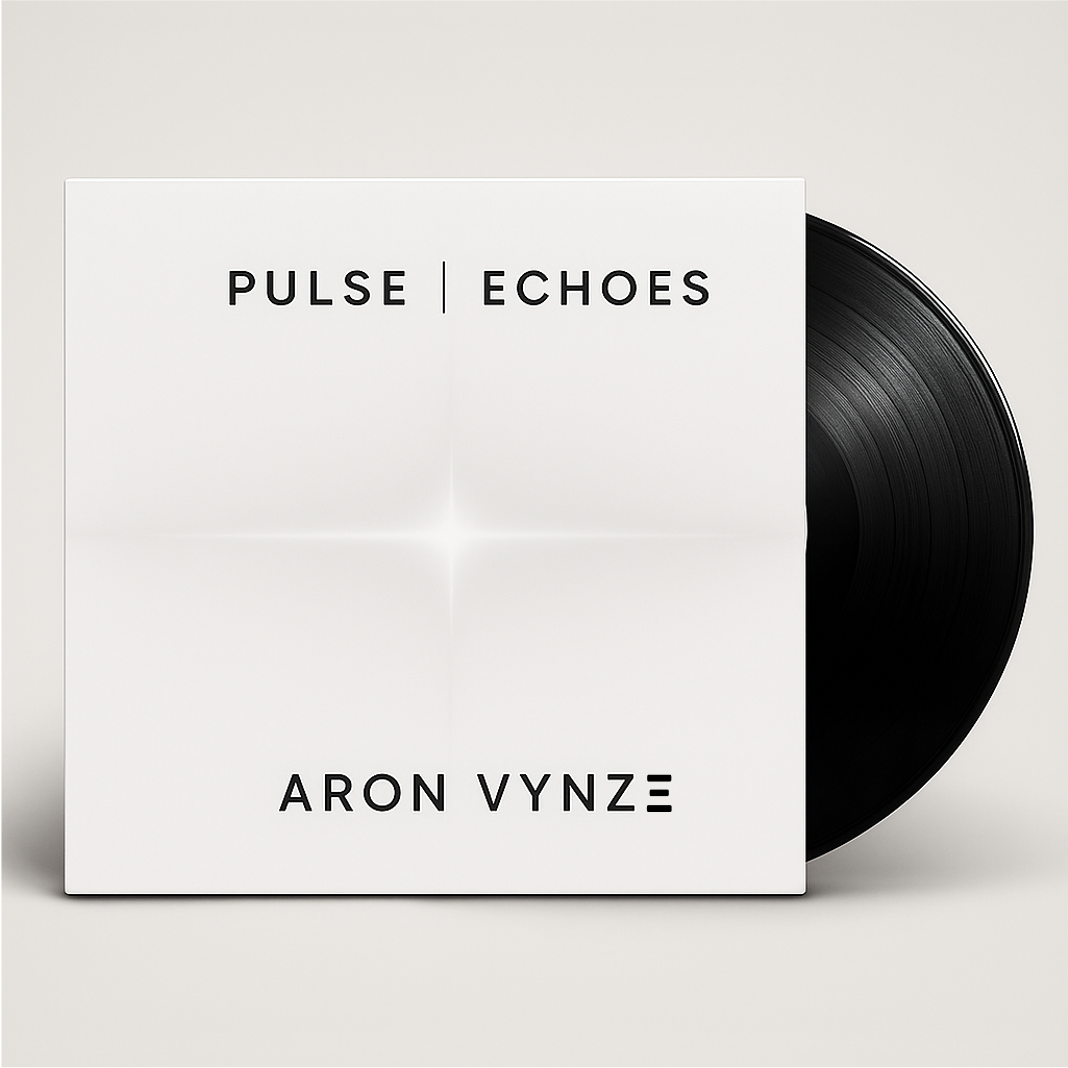
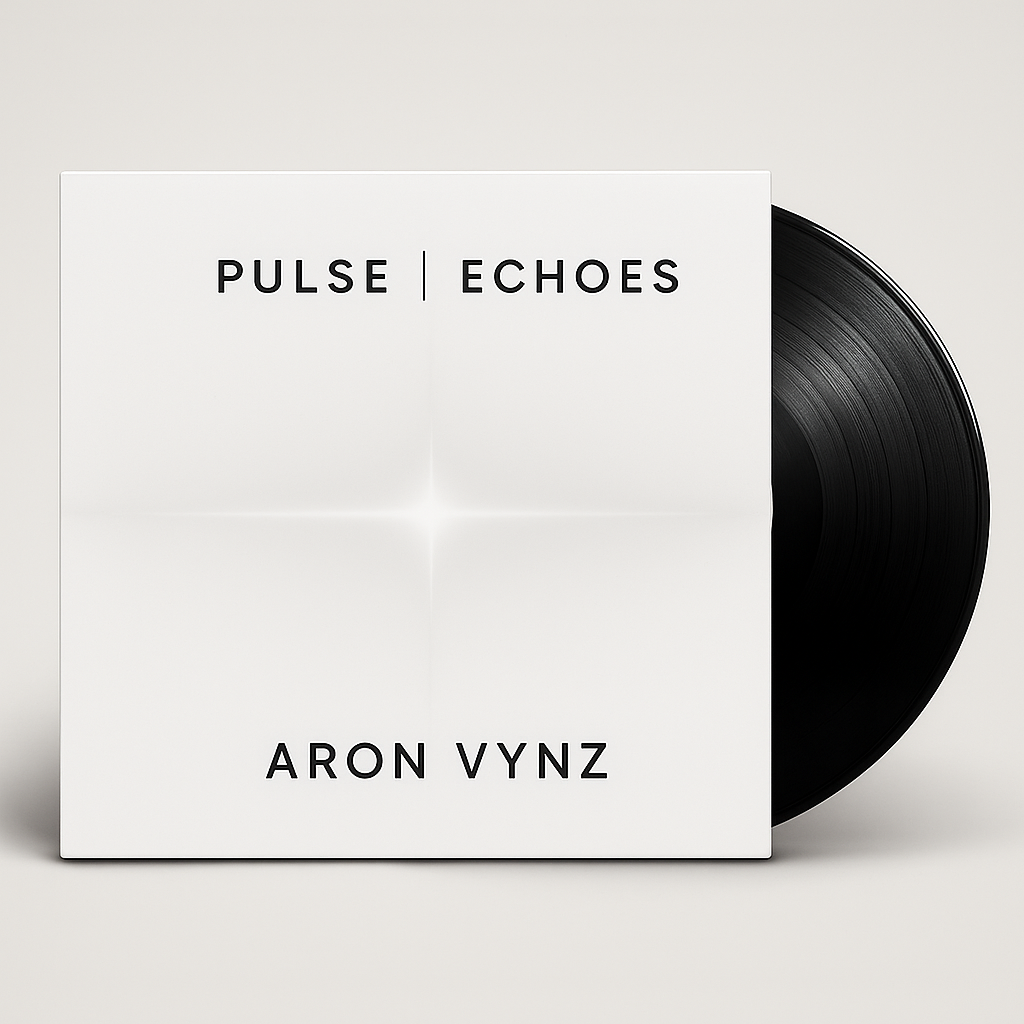
z

diff --git a/index2.html b/index2.html
@@ -11,6 +11,7 @@
       --ring:#e7e7ea; --shadow: 0 8px 30px rgba(10,10,20,.06);
     }
     *{box-sizing:border-box}
+    html{scroll-behavior:smooth}
     body{margin:0;background:var(--bg);color:var(--text);font-family:Inter,system-ui,-apple-system,Segoe UI,Roboto,Helvetica,Arial,sans-serif}
     a{color:inherit;text-decoration:none}
     img{display:block;max-width:100%}
@@ -19,13 +20,15 @@
     .hero{padding:56px 0;border-bottom:1px solid var(--ring)}
     .grid{display:grid;gap:36px}
     @media(min-width:900px){.grid{grid-template-columns:1.1fr .9fr;align-items:center}}
+    h1{font-size:clamp(28px,4.5vw,56px);line-height:1.05;margin:0}
     .lede{margin-top:10px;color:#444;max-width:70ch}
     .section{padding:36px 0}
-    .album{padding:18px 0 8px}
+    .album{padding:18px 0 8px; scroll-margin-top:80px}
     .album-head{display:flex;align-items:flex-end;justify-content:space-between;gap:16px;margin:8px 0 14px}
     .grid-covers{display:grid;gap:18px}
     @media(min-width:900px){.grid-covers{grid-template-columns:repeat(5,1fr)}}
-    .tile{background:#fff;border:1px solid var(--ring);border-radius:18px;overflow:hidden;box-shadow:var(--shadow)}
+    .tile{background:#fff;border:1px solid var(--ring);border-radius:18px;overflow:hidden;box-shadow:var(--shadow);transition:transform .12s ease, box-shadow .2s ease}
+    .tile:hover{transform:translateY(-2px);box-shadow:0 12px 40px rgba(10,10,20,.10)}
     .cover{aspect-ratio:1/1;background:linear-gradient(180deg,#f9fafb,#eef1f5);display:grid;place-items:center}
     .meta{padding:10px 12px}
     .title{font-weight:800;font-size:.98rem}
@@ -33,6 +36,13 @@
     .divider{height:1px;background:var(--ring);margin:22px 0}
     footer{border-top:1px solid var(--ring)}
     .footer{padding:22px 0;color:#888d95;font-size:12px}
+
+    /* Overview row styles */
+    .overview-grid{display:grid;gap:18px}
+    @media(min-width:900px){.overview-grid{grid-template-columns:repeat(4,1fr)}}
+    .overview-card{display:block;background:#fff;border:1px solid var(--ring);border-radius:18px;overflow:hidden;box-shadow:var(--shadow);transition:transform .12s ease, box-shadow .2s ease}
+    .overview-card:hover{transform:translateY(-2px);box-shadow:0 12px 40px rgba(10,10,20,.10)}
+    .overview-title{padding:10px 12px;font-weight:800}
   </style>
 </head>
 <body>
@@ -51,9 +61,38 @@
         <div><img src="catalogue.png" alt="Catalogue Banner" style="width:100%;border-radius:18px;"/></div>
       </div>
     </section>
-    <section id="albums" class="section"><div class="wrap" id="albumsRoot"></div></section>
+
+    <!-- Albums Overview Row -->
+    <section class="section">
+      <div class="wrap">
+        <div class="overview-grid">
+          <a class="overview-card" href="#origins">
+            <img src="covers/origins/origins.png" alt="Pulse | Origins cover">
+            <div class="overview-title">Pulse | Origins</div>
+          </a>
+          <a class="overview-card" href="#legacy">
+            <img src="covers/legacy/legacy.png" alt="Pulse | Legacy cover">
+            <div class="overview-title">Pulse | Legacy</div>
+          </a>
+          <a class="overview-card" href="#echoes">
+            <img src="covers/echoes/echoes.png" alt="Pulse | Echoes cover">
+            <div class="overview-title">Pulse | Echoes</div>
+          </a>
+          <a class="overview-card" href="#deluxe">
+            <img src="covers/deluxe/deluxe.png" alt="Pulse | Deluxe cover">
+            <div class="overview-title">Pulse | Deluxe</div>
+          </a>
+        </div>
+      </div>
+    </section>
+
+    <section id="albums" class="section">
+      <div class="wrap" id="albumsRoot"></div>
+    </section>
   </main>
+
   <footer><div class="wrap footer">© <span id="year"></span> Aron VYNZΞ</div></footer>
+
   <script>
     document.getElementById('year').textContent = new Date().getFullYear();
     const pad2=n=>String(n).padStart(2,"0");
@@ -61,8 +100,8 @@
     const albums=[
       {id:"origins",name:"Aron VYNZΞ — Pulse | Origins",note:"Tracks 1–10",tracks:makeTracks(10,"origins")},
       {id:"legacy",name:"Aron VYNZΞ — Pulse | Legacy",note:"Tracks 11–20",tracks:makeTracks(10,"legacy")},
-      {id:"echoes",name:"Aron VYNZΞ — Pulse | Echoes",note:"Remix / ambient",tracks:makeTracks(5,"echoes")},
-      {id:"deluxe",name:"Aron VYNZΞ — Pulse | Deluxe",note:"Complete edition",tracks:makeTracks(25,"deluxe")}
+      {id:"echoes",name:"Aron VYNZΞ — Pulse | Echoes",note:"Ambient remix",tracks:makeTracks(10,"echoes")},
+      {id:"deluxe",name:"Aron VYNZΞ — Pulse | Deluxe",note:"Complete edition",tracks:makeTracks(30,"deluxe")}
     ];
     const root=document.getElementById('albumsRoot');
     albums.forEach((a,idx)=>{

diff --git a/index.html b/index.html
@@ -3,7 +3,7 @@
 <head>
   <meta charset="utf-8" />
   <meta name="viewport" content="width=device-width, initial-scale=1" />
-  <title>VYNZΞ — PULSΞ · Albums & Tracks</title>
+  <title>VYNZE — PULSE · Albums & Tracks</title>
   <style>
     :root{
       --bg:#ffffff; --text:#0f1115; --muted:#52545a;
@@ -43,24 +43,54 @@
     .overview-card{display:block;background:#fff;border:1px solid var(--ring);border-radius:18px;overflow:hidden;box-shadow:var(--shadow);transition:transform .12s ease, box-shadow .2s ease}
     .overview-card:hover{transform:translateY(-2px);box-shadow:0 12px 40px rgba(10,10,20,.10)}
     .overview-title{padding:10px 12px;font-weight:800}
-  </style>
+  
+/* Full-width hero with background and centered overlay text */
+.hero-full{
+  position: relative;
+  width: 100%;
+  min-height: clamp(320px, 55vh, 560px);
+  background-image: url('banner.png');
+  background-size: cover;
+  background-position: center;
+  background-repeat: no-repeat;
+  display: grid;
+  place-items: center;
+  text-align: center;
+  color: #fff;
+  padding: 24px;
+}
+.hero-full .wrap{
+  max-width: 1100px;
+  margin: 0 auto;
+}
+.hero-full h1{
+  margin: 0 0 12px 0;
+  font-size: clamp(28px, 6vw, 56px);
+  letter-spacing: .02em;
+}
+.hero-full .lede{
+  margin: 8px auto;
+  font-size: clamp(14px, 2.1vw, 20px);
+  line-height: 1.5;
+}
+/* subtle text shadow to maintain readability while keeping the image unchanged */
+.hero-full, .hero-full *{
+  text-shadow: 0 2px 18px rgba(0,0,0,.6);
+}
+
+</style>
 </head>
 <body>
   <main id="top">
-    <section class="hero">
-      <div class="wrap grid">
-        <div>
-          <h1>VYNZΞ — PULSΞ</h1>
-          <p class="lede">
-            VYNZΞ (Vision Your Next Zenith) is the project name of Aron Vynze, an electronic DJ / producer, melodic techno and progressive house with futuristic soundscapes. His music is defined by deep basslines, shimmering melodies, and an immersive, cinematic atmosphere.
-          </p>
-          <p class="lede">
-            With PULSΞ, Aron Vynze presents his vision: music as energy, as a signal, as a calling. Each release becomes a chapter in a larger story, where sound and visuals merge into one futuristic experience.
-          </p>
-        </div>
-        <div><img src="catalogue.png" alt="Catalogue Banner" style="width:100%;border-radius:18px;"/></div>
-      </div>
-    </section>
+    
+<section id="hero" class="hero-full">
+  <div class="wrap">
+    <h1>VYNZE — PULSE</h1>
+    <p class="lede">VYNZE (Vision Your Next Zenith) is the project name of Aron Vynze, electronic DJ / producer creating melodic techno and progressive house with futuristic soundscapes. His music is defined by deep basslines, shimmering melodies, and an immersive, cinematic atmosphere.</p>
+    <p class="lede">With PULSE, Aron Vynze presents his vision: music as energy, as a signal, as a calling. Each release becomes a chapter in a larger story, where sound and visuals merge into one futuristic experience.</p>
+  </div>
+</section>
+
 
     <!-- Albums Overview Row -->
     <section class="section">
@@ -91,17 +121,17 @@
     </section>
   </main>
 
-  <footer><div class="wrap footer">© <span id="year"></span> Aron VYNZΞ</div></footer>
+  <footer><div class="wrap footer">© <span id="year"></span> Aron VYNZE</div></footer>
 
   <script>
     document.getElementById('year').textContent = new Date().getFullYear();
     const pad2=n=>String(n).padStart(2,"0");
     const makeTracks=(n,id)=>Array.from({length:n},(_,i)=>({n:i+1,title:"Track "+(i+1),cover:`covers/${id}/${pad2(i+1)}.png`}));
     const albums=[
-      {id:"origins",name:"Aron VYNZΞ — Pulse | Origins",note:"Tracks 1–10",tracks:makeTracks(10,"origins")},
-      {id:"legacy",name:"Aron VYNZΞ — Pulse | Legacy",note:"Tracks 11–20",tracks:makeTracks(10,"legacy")},
-      {id:"echoes",name:"Aron VYNZΞ — Pulse | Echoes",note:"Ambient remix",tracks:makeTracks(10,"echoes")},
-      {id:"deluxe",name:"Aron VYNZΞ — Pulse | Deluxe",note:"Complete edition",tracks:makeTracks(30,"deluxe")}
+      {id:"origins",name:"Aron VYNZE — Pulse | Origins",note:"Tracks 1–10",tracks:makeTracks(10,"origins")},
+      {id:"legacy",name:"Aron VYNZE — Pulse | Legacy",note:"Tracks 11–20",tracks:makeTracks(10,"legacy")},
+      {id:"echoes",name:"Aron VYNZE — Pulse | Echoes",note:"Ambient remix",tracks:makeTracks(10,"echoes")},
+      {id:"deluxe",name:"Aron VYNZE — Pulse | Deluxe",note:"Complete edition",tracks:makeTracks(30,"deluxe")}
     ];
     const root=document.getElementById('albumsRoot');
     albums.forEach((a,idx)=>{
